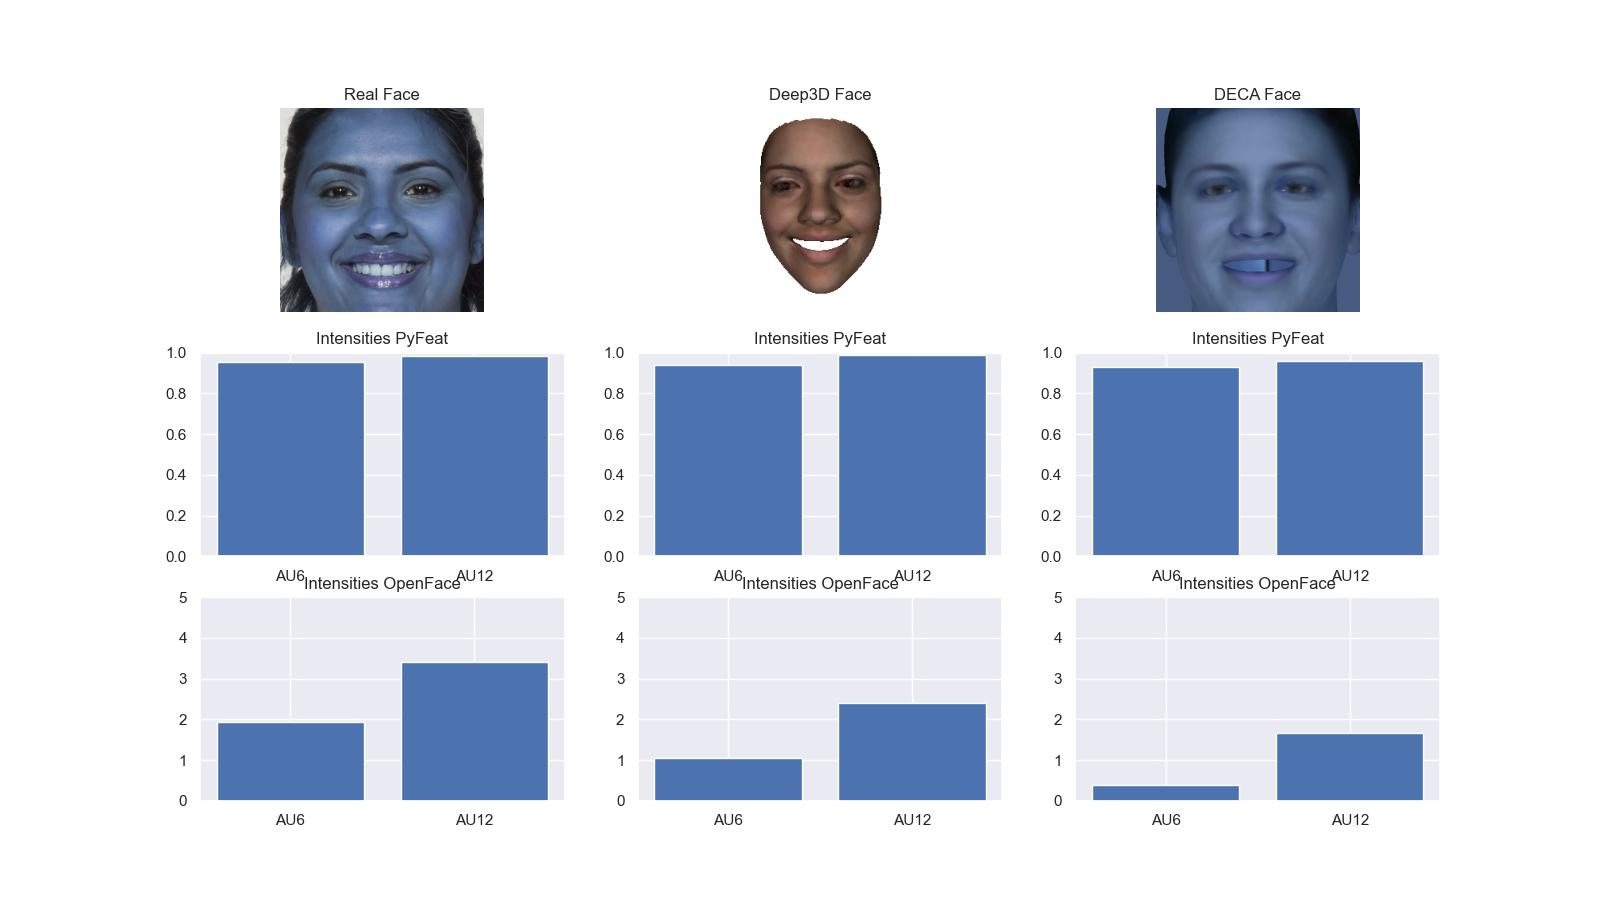
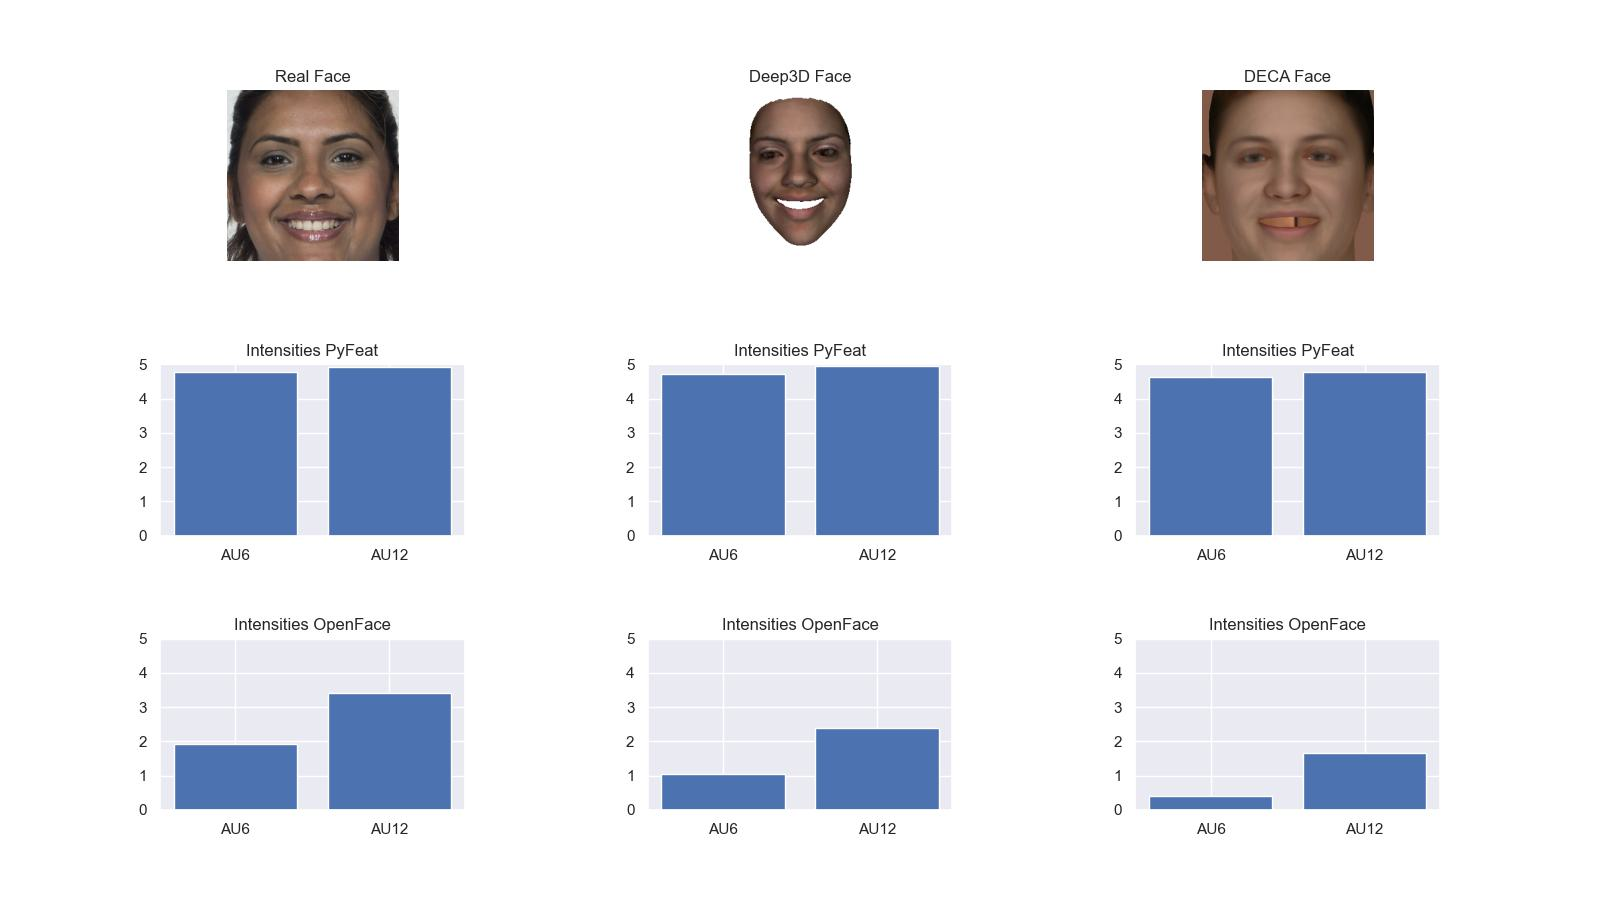
testes

diff --git a/runAnalysis.py b/runAnalysis.py
@@ -15,7 +15,7 @@ from feat.plotting import imshow
 
 from runCropFace import cropImage
 import seaborn as sns
-
+from sklearn import preprocessing as pre
 
 # Raiva 4, 5, 7, 10, 17, 22, 23, 24, 25, 26
 # Medo 1, 2, 4, 5, 20, 25, 26
@@ -70,9 +70,16 @@ def pyfeat(image, tipo):
     
     aus = single_face_prediction.aus
     
-    return emotions, aus
+    # List emotions
+    lemo = list(emotions.values)
+    lemo = list(lemo[0])
+    
+    maximo = max(lemo)
+    getEmo = lemo.index(maximo)
+    
+    return emotions, aus, getEmo
 
-def getInfoOpen(o1, o2, o3):
+def getInfoOpen(o1, o2, o3, emo):
     
     ret1 = []
     ret2 = []
@@ -81,7 +88,7 @@ def getInfoOpen(o1, o2, o3):
     laus = list(laus[0])                
     lblAus = list(o1)
         
-    getEmo = 3
+    getEmo = emo
     
     # print(ausEmo[getEmo])                
     ret1.append(ausEmo[getEmo])
@@ -108,7 +115,7 @@ def getInfoOpen(o1, o2, o3):
     laus = list(laus[0])                
     lblAus = list(o2)
         
-    getEmo = 3
+    getEmo = emo
     
     # print(ausEmo[getEmo])                
     ret1.append(ausEmo[getEmo])
@@ -135,7 +142,7 @@ def getInfoOpen(o1, o2, o3):
     laus = list(laus[0])                
     lblAus = list(o3)
         
-    getEmo = 3
+    getEmo = emo
     
     # print(ausEmo[getEmo])                
     ret1.append(ausEmo[getEmo])
@@ -158,18 +165,14 @@ def getInfoOpen(o1, o2, o3):
     
     return ret1, ret2
 
-def getInfos(p1):
+def getInfos(p1, emo):
    
     ret1 = []
     ret2 = []
 
-    emotions = p1[0]
-    
+    emotions = p1[0]    
     aus = p1[1]
-
-    # print(emotions, type(emotions))
-    # print(aus)                
-    
+         
     # List emotions
     lemo = list(emotions.values)
     lemo = list(lemo[0])
@@ -178,11 +181,16 @@ def getInfos(p1):
     laus = list(aus.values)
     laus = list(laus[0])                
     lblAus = list(aus)
+        
+    x = np.array(laus)
+    x = x.reshape(-1, 1)
+
+    #normalize all values to be between 0 and 1
+    x_norm = pre.MinMaxScaler(feature_range=(0, 5)).fit_transform(x)
 
     maximo = max(lemo)
-    getEmo = lemo.index(maximo)
-    
-    # print(ausEmo[getEmo])                
+    getEmo = emo
+                
     ret1.append(ausEmo[getEmo])
     
     temp = []                
@@ -197,41 +205,34 @@ def getInfos(p1):
         try :
             
             indice = lblAus.index(name)
-            getVal = laus[indice]
+            getVal = x_norm[indice][0]
             
             temp.append(getVal)
             
         except ValueError:
             pass;
         
-    # print(temp)
     ret2.append(temp)
-
-    ## =========================================================
     
     return ret1, ret2
 
 def runPlots(r1, r2, r3, retorno2):
-    
-    # print(r1)
-    # print(r2)
-    # print(r3)
-    # print(retorno2)
-    # exit()
-    
+        
     sns.set_theme()
     
     pimg = 'output/deep3d/'
     
     ## Deep3D Image
-    img = cv2.imread(pimg + f2)
+    img = cv2.imread(pimg + f2, cv2.COLOR_BGR2RGB)
     img = cv2.cvtColor(img, cv2.COLOR_BGR2RGB)
     
     ## Crop Real Face    
     r = cropImage(f1, 'rec')
+    r = cv2.cvtColor(r, cv2.COLOR_BGR2RGB)
     
     ## Crop Real Face    
     retDeca = cropImage(f3, 'render')
+    retDeca = cv2.cvtColor(retDeca, cv2.COLOR_BGR2RGB)
     
     plt.figure(figsize=(16,9))
         
@@ -259,16 +260,15 @@ def runPlots(r1, r2, r3, retorno2):
 
     plt.subplot(3, 3, 4)
     plt.title('Intensities PyFeat')
-    plt.ylim([0,1])
+    plt.ylim([0,5])
     plt.bar(label1, valor1)
 
-    ## =========================================================    
     label2 = [str("AU") + str(x) for x in r2[0][0]]
     valor2 = r2[1][0]
     
     plt.subplot(3, 3, 5)
     plt.title('Intensities PyFeat')
-    plt.ylim([0,1])
+    plt.ylim([0,5])
     plt.bar(label2, valor2)
     
     label3 = [str("AU") + str(x) for x in r3[0][0]]
@@ -276,7 +276,7 @@ def runPlots(r1, r2, r3, retorno2):
     
     plt.subplot(3, 3, 6)
     plt.title('Intensities PyFeat')
-    plt.ylim([0,1])
+    plt.ylim([0,5])
     plt.bar(label3, valor3)
     
     ## =========================================================    
@@ -305,6 +305,13 @@ def runPlots(r1, r2, r3, retorno2):
     plt.title('Intensities OpenFace')
     plt.ylim([0,5])
     plt.bar(labelOpen3, valorOpen3)
+    
+    plt.subplots_adjust(left=0.1,
+                    bottom=0.1, 
+                    right=0.9, 
+                    top=0.9, 
+                    wspace=0.6, 
+                    hspace=0.6)
 
     # plt.show()
     plt.savefig('output/results/results_' + f1)
@@ -324,29 +331,29 @@ if __name__ == '__main__':
         [1, 2, 5, 26],
     ]
     
-    f1 = '099_08.jpg'
-    f2 = '099_08_mesh.png'
-    f3 = 'orig_099_08_rendered_images.jpg'
+    f1 = 'photo0.png'
+    f2 = 'photo0_mesh.png'
+    f3 = 'orig_photo0_rendered_images.jpg'
     
     ## Run Openface
-    openFace(f1, 'deep3d')
-    openFace(f2, 'deep3d')
-    openFace(f3, 'render')
+    # openFace(f1, 'deep3d')
+    # openFace(f2, 'deep3d')
+    # openFace(f3, 'render')
         
     ## Run Get data py-feat
     p1 = pyfeat(f1, 'rec') 
     p2 = pyfeat(f2, 'deep3d')
     p3 = pyfeat(f3, 'render')
         
-    r1 = getInfos(p1)
-    r2 = getInfos(p2)
-    r3 = getInfos(p3)
+    r1 = getInfos(p1, p1[2])
+    r2 = getInfos(p2, p1[2])
+    r3 = getInfos(p3, p1[2])
     
     ## Run Get data OpenFace
     o1 = dataOpen(f1.split('.')[0])
     o2 = dataOpen(f2.split('.')[0])
     o3 = dataOpen(f3.split('.')[0])
     
-    s = getInfoOpen(o1, o2, o3)
+    s = getInfoOpen(o1, o2, o3, p1[2])
     
     runPlots(r1, r2, r3, s)
